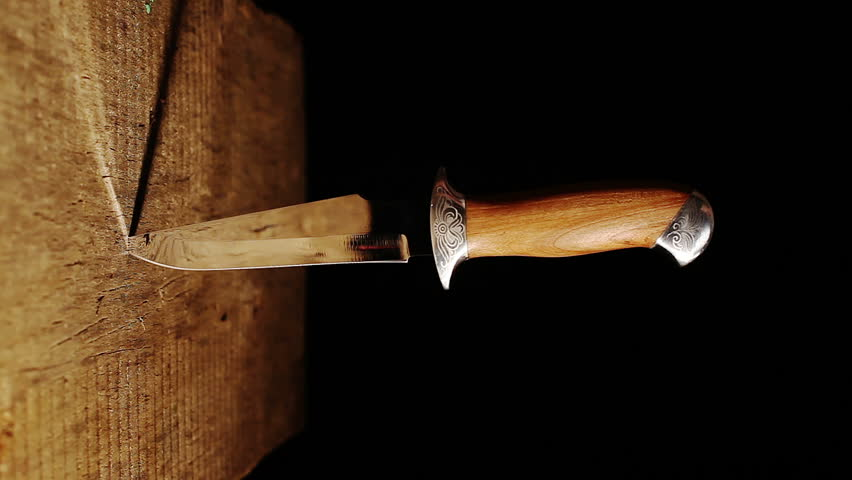
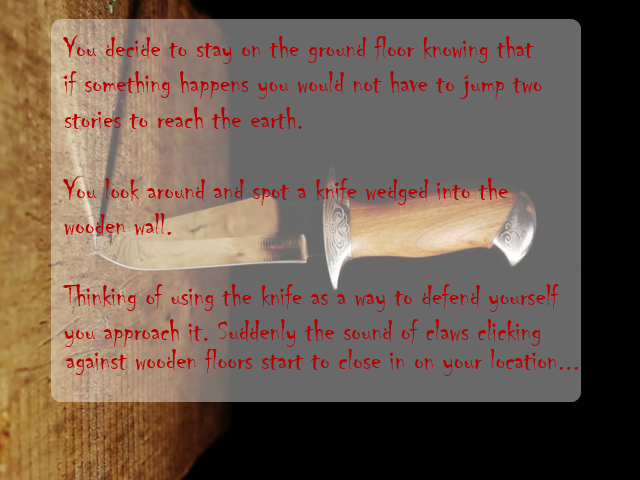
Added Ground Floor Scene

diff --git a/Scripts/scenes/ground.js b/Scripts/scenes/ground.js
@@ -1,0 +1,50 @@
+var __extends = (this && this.__extends) || function (d, b) {
+    for (var p in b) if (b.hasOwnProperty(p)) d[p] = b[p];
+    function __() { this.constructor = d; }
+    d.prototype = b === null ? Object.create(b) : (__.prototype = b.prototype, new __());
+};
+//START SCENE
+var scenes;
+(function (scenes) {
+    var GroundScene = (function (_super) {
+        __extends(GroundScene, _super);
+        //CONSTRUCTOR --------------------------------------
+        function GroundScene() {
+            _super.call(this);
+        }
+        //PUBLIC METHODS ----------------------------------------
+        //Start Method
+        GroundScene.prototype.start = function () {
+            //Add Image
+            this._groundSceneImage = new createjs.Bitmap("../../Assets/images/Ground.png");
+            this.addChild(this._groundSceneImage);
+            //add TakeKnife button to the MENU scene
+            this._takeKnifeButton = new objects.Button("TakeKnife", config.Screen.CENTER_X - 100, config.Screen.CENTER_Y + 180);
+            this.addChild(this._takeKnifeButton);
+            this._takeKnifeButton.on("click", this._takeKnifeButtonClick, this);
+            //add GroundRun button to the MENU scene
+            this._groundRunButton = new objects.Button("GroundRun", config.Screen.CENTER_X + 100, config.Screen.CENTER_Y + 180);
+            this.addChild(this._groundRunButton);
+            this._groundRunButton.on("click", this._groundRunButtonClick, this);
+            stage.addChild(this);
+        };
+        //Start Scene updates here
+        GroundScene.prototype.update = function () {
+        };
+        //EVENT HANDLERS -------------------------------
+        //Continue click event handler
+        GroundScene.prototype._takeKnifeButtonClick = function (event) {
+            //Switch to GO_IN scene
+            scene = config.Scene.STAY_GROUND;
+            changeScene();
+        };
+        GroundScene.prototype._groundRunButtonClick = function (event) {
+            //Switch to GO_IN scene
+            scene = config.Scene.STAY_GROUND;
+            changeScene();
+        };
+        return GroundScene;
+    })(objects.Scene);
+    scenes.GroundScene = GroundScene;
+})(scenes || (scenes = {}));
+//# sourceMappingURL=ground.js.map

diff --git a/Scripts/scenes/ground.ts b/Scripts/scenes/ground.ts
@@ -1,0 +1,61 @@
+//START SCENE
+module scenes {
+    export class GroundScene extends objects.Scene {
+        //PRIVATE INSTANCE VARIABLES --------------------------------
+        private _groundSceneImage: createjs.Bitmap;
+        private _takeKnifeButton: objects.Button;
+        private _groundRunButton: objects.Button;
+    
+        //CONSTRUCTOR --------------------------------------
+        constructor() {
+            super();
+        }
+    
+        //PUBLIC METHODS ----------------------------------------
+    
+        //Start Method
+        public start(): void {
+            //Add Image
+            this._groundSceneImage = new createjs.Bitmap("../../Assets/images/Ground.png");
+            this.addChild(this._groundSceneImage);
+        
+            //add TakeKnife button to the MENU scene
+            this._takeKnifeButton = new objects.Button("TakeKnife",
+                config.Screen.CENTER_X - 100,
+                config.Screen.CENTER_Y + 180);
+            this.addChild(this._takeKnifeButton);
+
+            this._takeKnifeButton.on("click", this._takeKnifeButtonClick, this);
+            
+            //add GroundRun button to the MENU scene
+            this._groundRunButton = new objects.Button("GroundRun",
+                config.Screen.CENTER_X + 100,
+                config.Screen.CENTER_Y + 180);
+            this.addChild(this._groundRunButton);
+
+            this._groundRunButton.on("click", this._groundRunButtonClick, this);
+
+            stage.addChild(this);
+        }
+    
+        //Start Scene updates here
+        public update(): void {
+
+        }
+        
+        //EVENT HANDLERS -------------------------------
+        
+        //Continue click event handler
+        private _takeKnifeButtonClick(event: createjs.MouseEvent) {
+            //Switch to GO_IN scene
+            scene = config.Scene.STAY_GROUND;
+            changeScene();
+        }
+
+        private _groundRunButtonClick(event: createjs.MouseEvent) {
+            //Switch to GO_IN scene
+            scene = config.Scene.STAY_GROUND;
+            changeScene();
+        }
+    }
+}

diff --git a/Scripts/scenes/insidemansion.ts b/Scripts/scenes/insidemansion.ts
@@ -3,7 +3,6 @@ module scenes {
         //PRIVATE INSTANCE VARIABLES --------------------------------
         private _insideMansionImage: createjs.Bitmap;
         private _upstairsButton: objects.Button;
-        private _downstairsButton: objects.Button;
         private _groundButton: objects.Button;
     
         //CONSTRUCTOR --------------------------------------
@@ -21,23 +20,16 @@ module scenes {
         
             //add upstairs button to the MENU scene
             this._upstairsButton = new objects.Button("GoUpstairsButton",
-                config.Screen.CENTER_X - 150,
+                config.Screen.CENTER_X - 100,
                 config.Screen.CENTER_Y + 180);
             this.addChild(this._upstairsButton);
             
-            //add downstairs button
             this._upstairsButton.on("click", this._upstairsButtonClick, this);
             
-            this._downstairsButton = new objects.Button("GoDownstairsButton",
-                config.Screen.CENTER_X + 150,
-                config.Screen.CENTER_Y + 180);
-            this.addChild(this._downstairsButton);
-
-            this._downstairsButton.on("click", this._downstairsButtonClick, this);
             
             //add ground button
             this._groundButton = new objects.Button("StayGroundButton",
-                config.Screen.CENTER_X,
+                config.Screen.CENTER_X + 100,
                 config.Screen.CENTER_Y + 180);
             this.addChild(this._groundButton);
 
@@ -60,17 +52,10 @@ module scenes {
             changeScene();
         }
         
-        //StayGroundButton click event handler
-        private _downstairsButtonClick(event: createjs.MouseEvent){
-            //Switch to Explore scene
-            scene = config.Scene.GO_IN;
-            changeScene();
-        }
-        
         //GoDownstairsButton click event handler
         private _groundButtonClick(event: createjs.MouseEvent){
             //Switch to Explore scene
-            scene = config.Scene.GO_IN;
+            scene = config.Scene.STAY_GROUND;
             changeScene();
         }
     }

diff --git a/Scripts/scenes/insidemansion.js b/Scripts/scenes/insidemansion.js
@@ -18,15 +18,11 @@ var scenes;
             this._insideMansionImage = new createjs.Bitmap("../../Assets/images/insidemansion.png");
             this.addChild(this._insideMansionImage);
             //add upstairs button to the MENU scene
-            this._upstairsButton = new objects.Button("GoUpstairsButton", config.Screen.CENTER_X - 150, config.Screen.CENTER_Y + 180);
+            this._upstairsButton = new objects.Button("GoUpstairsButton", config.Screen.CENTER_X - 100, config.Screen.CENTER_Y + 180);
             this.addChild(this._upstairsButton);
-            //add downstairs button
             this._upstairsButton.on("click", this._upstairsButtonClick, this);
-            this._downstairsButton = new objects.Button("GoDownstairsButton", config.Screen.CENTER_X + 150, config.Screen.CENTER_Y + 180);
-            this.addChild(this._downstairsButton);
-            this._downstairsButton.on("click", this._downstairsButtonClick, this);
             //add ground button
-            this._groundButton = new objects.Button("StayGroundButton", config.Screen.CENTER_X, config.Screen.CENTER_Y + 180);
+            this._groundButton = new objects.Button("StayGroundButton", config.Screen.CENTER_X + 100, config.Screen.CENTER_Y + 180);
             this.addChild(this._groundButton);
             this._groundButton.on("click", this._groundButtonClick, this);
             stage.addChild(this);
@@ -41,16 +37,10 @@ var scenes;
             scene = config.Scene.GO_IN;
             changeScene();
         };
-        //StayGroundButton click event handler
-        InsideMansion.prototype._downstairsButtonClick = function (event) {
-            //Switch to Explore scene
-            scene = config.Scene.GO_IN;
-            changeScene();
-        };
         //GoDownstairsButton click event handler
         InsideMansion.prototype._groundButtonClick = function (event) {
             //Switch to Explore scene
-            scene = config.Scene.GO_IN;
+            scene = config.Scene.STAY_GROUND;
             changeScene();
         };
         return InsideMansion;

diff --git a/Scripts/core/game.js b/Scripts/core/game.js
@@ -9,8 +9,7 @@ var scene;
 var intro;
 var startScene;
 var insideMansion;
-// var leftCave: scenes.LeftCave;
-// var rightCave: scenes.RightCave;
+var ground;
 function init() {
     // create a reference the HTML canvas Element
     canvas = document.getElementById("canvas");
@@ -72,6 +71,13 @@ function changeScene() {
             insideMansion = new scenes.InsideMansion();
             currentScene = insideMansion;
             console.log("Starting Inside Mansion Scene");
+            break;
+        case config.Scene.STAY_GROUND:
+            //Show Start Scene
+            stage.removeAllChildren();
+            ground = new scenes.GroundScene();
+            currentScene = ground;
+            console.log("Starting Stay On Ground Scene");
             break;
     }
     console.log(currentScene.numChildren);

diff --git a/Scripts/core/game.ts b/Scripts/core/game.ts
@@ -12,7 +12,7 @@ var scene: number;
 var intro: scenes.Intro;
 var startScene: scenes.StartScene;
 var insideMansion: scenes.InsideMansion;
-//var basement: scenes.
+var ground: scenes.GroundScene;
 
 
 function init(): void {
@@ -91,6 +91,14 @@ function changeScene(): void {
             insideMansion = new scenes.InsideMansion();
             currentScene = insideMansion;
             console.log("Starting Inside Mansion Scene");
+            break;
+            
+            case config.Scene.STAY_GROUND:
+            //Show Start Scene
+            stage.removeAllChildren();
+            ground = new scenes.GroundScene();
+            currentScene = ground;
+            console.log("Starting Stay On Ground Scene");
             break;
             
     }

diff --git a/Scripts/config/config.ts b/Scripts/config/config.ts
@@ -7,9 +7,7 @@
         public static GO_IN: number = 2;
         public static GO_EXPLORE: number = 3;
         public static GO_UPSTAIRS: number = 4;
-        public static GO_DOWNSTAIRS: number = 5;
-        public static BASEMENT: number = 7;
-        public static STAY_GROUND: number = 6;
+        public static STAY_GROUND: number = 5;
     }
     
     

diff --git a/Scripts/core/_reference.js b/Scripts/core/_reference.js
@@ -5,5 +5,6 @@
 /// <reference path="../objects/scene.ts" />
 /// <reference path="../scenes/startscene.ts"/>
 /// <reference path="../scenes/intro.ts" />
-/// <reference path="../scenes/insidemansion.ts" /> 
+/// <reference path="../scenes/insidemansion.ts" />
+/// <reference path="../scenes/ground.ts" /> 
 //# sourceMappingURL=_reference.js.map

diff --git a/index.html b/index.html
@@ -32,6 +32,7 @@
     <script src="Scripts/scenes/startscene.js"></script>
     <script src="Scripts/scenes/intro.js"></script>
     <script src="Scripts/scenes/insidemansion.js"></script>
+    <script src="Scripts/scenes/ground.js"></script>
 
     <!-- Main Game Scripts -->
     <script src="Scripts/core/game.js"></script>

diff --git a/Scripts/config/config.js b/Scripts/config/config.js
@@ -9,8 +9,7 @@ var config;
         Scene.GO_IN = 2;
         Scene.GO_EXPLORE = 3;
         Scene.GO_UPSTAIRS = 4;
-        Scene.GO_DOWNSTAIRS = 5;
-        Scene.STAY_GROUND = 6;
+        Scene.STAY_GROUND = 5;
         return Scene;
     })();
     config.Scene = Scene;

diff --git a/Scripts/core/_reference.ts b/Scripts/core/_reference.ts
@@ -9,4 +9,4 @@
 /// <reference path="../scenes/startscene.ts"/>
 /// <reference path="../scenes/intro.ts" />
 /// <reference path="../scenes/insidemansion.ts" />
-/// <reference path="../scenes/basement.ts" />
+/// <reference path="../scenes/ground.ts" />
